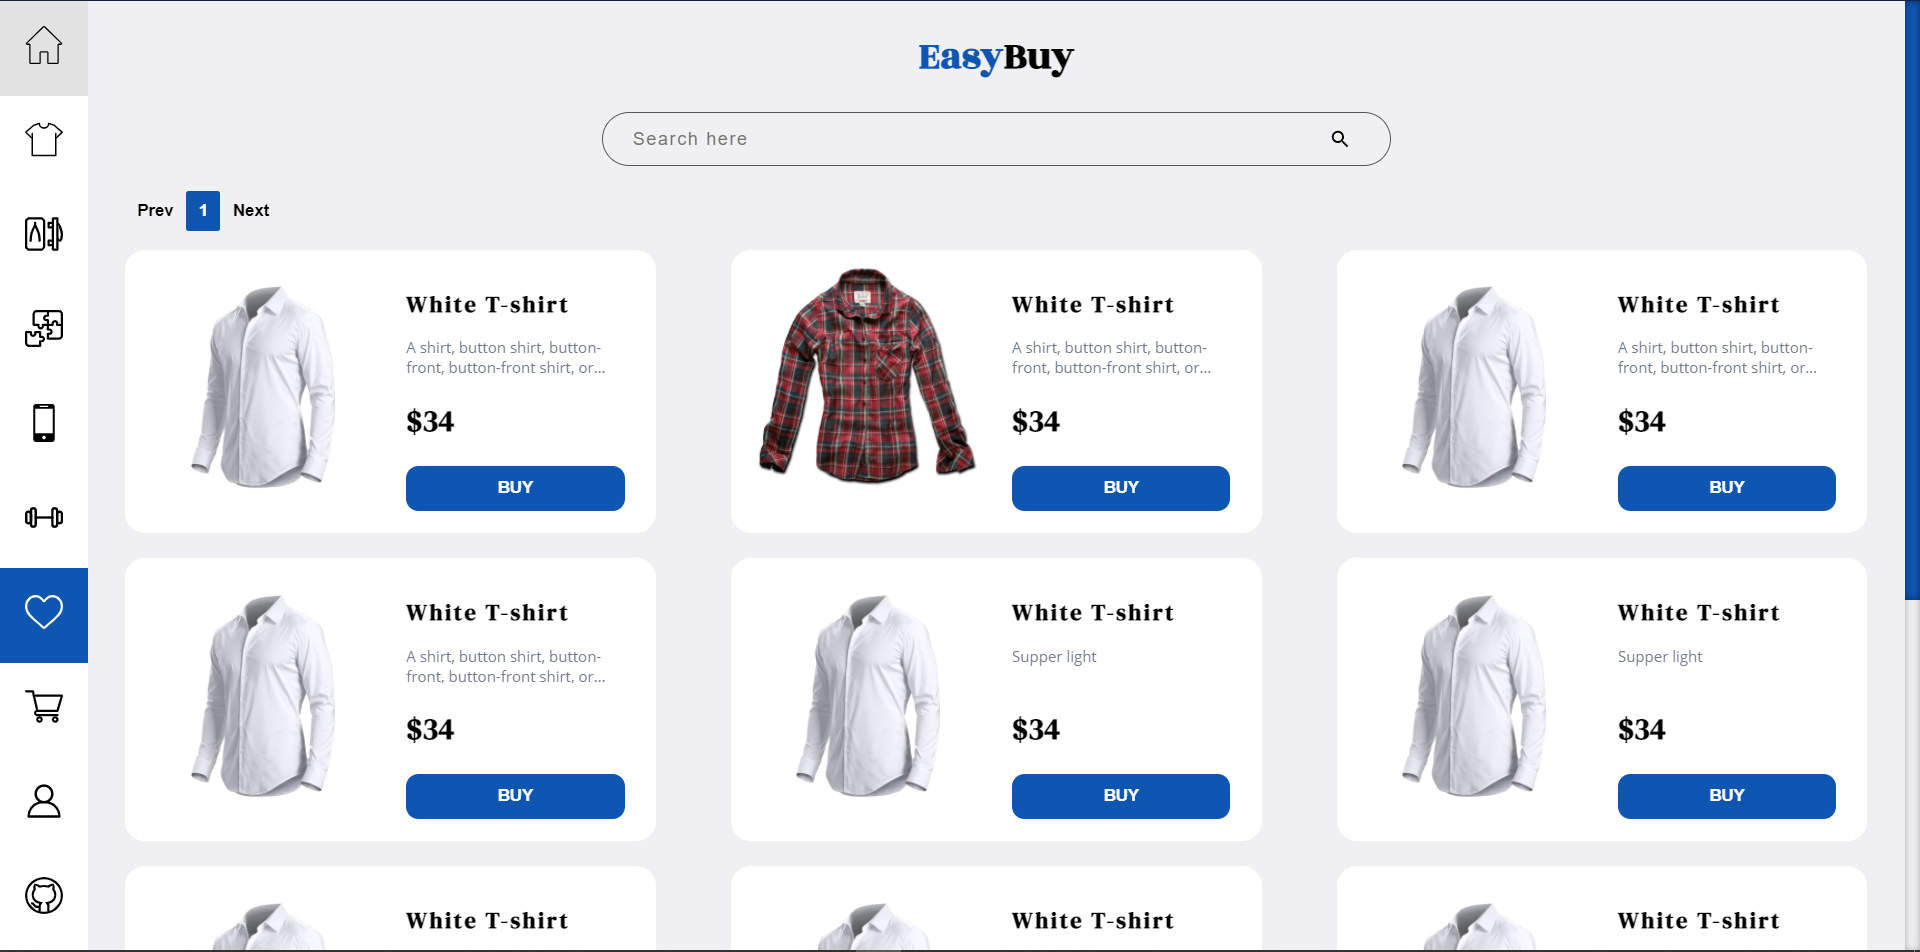
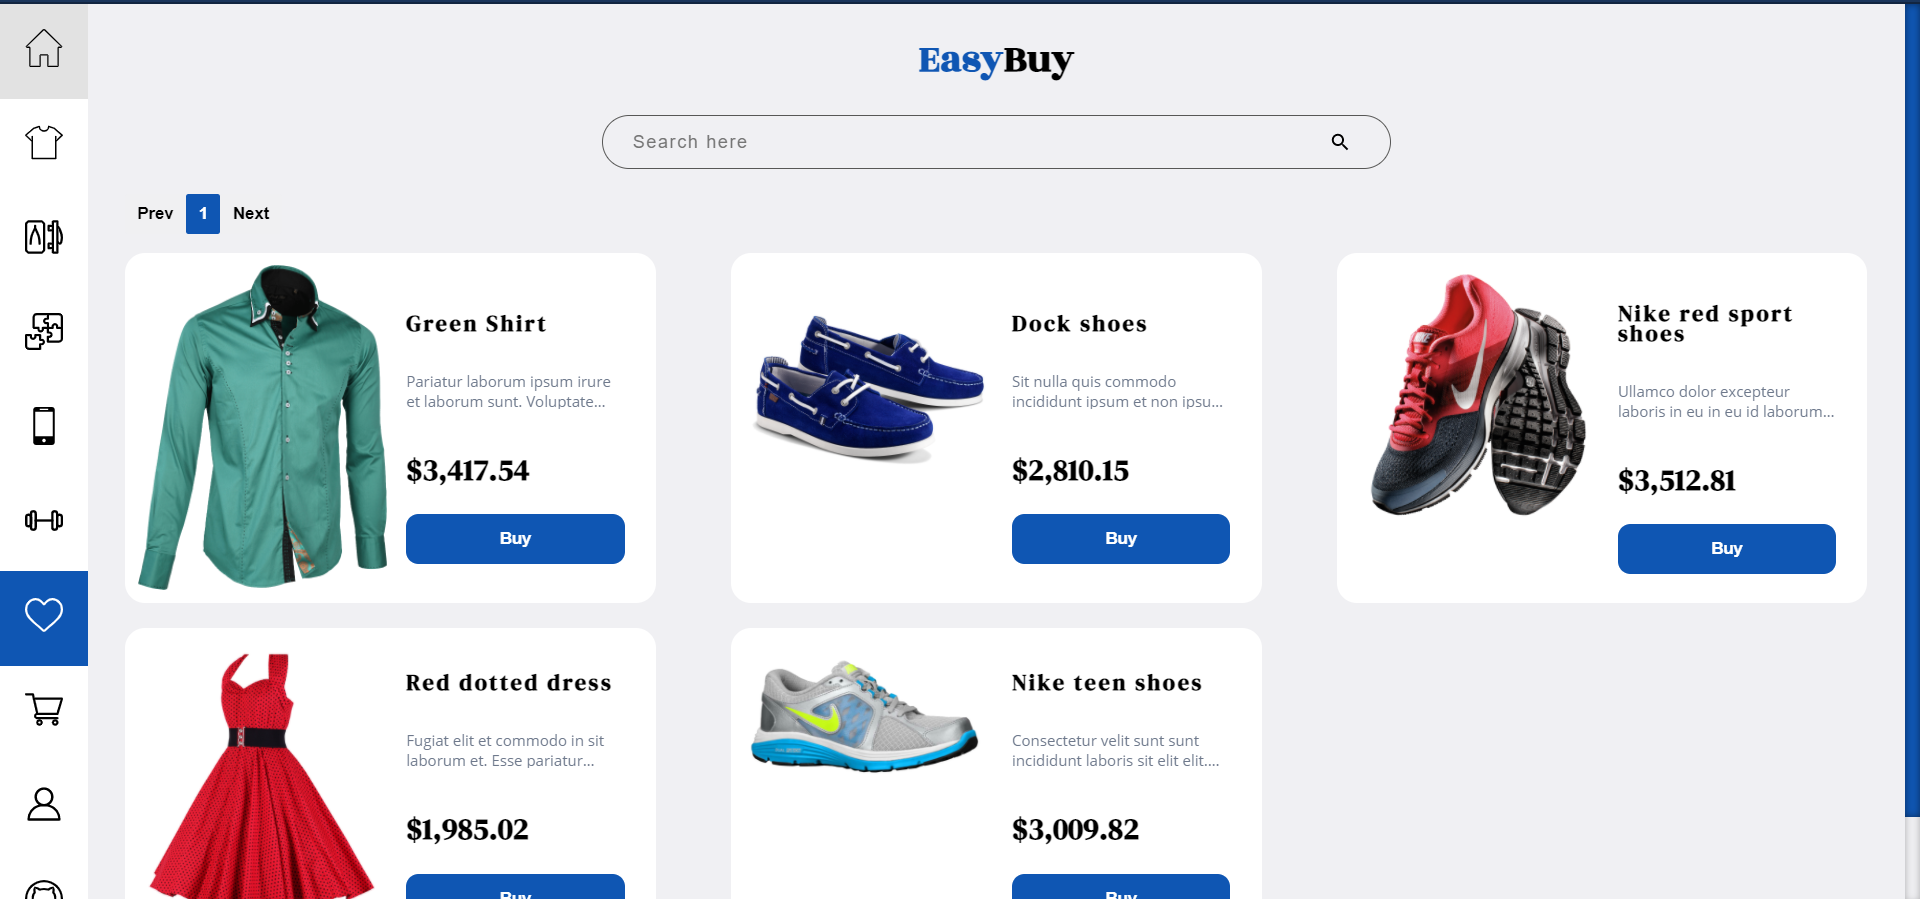
add logic to favorite and cart

diff --git a/src/pages/WishedList/WishedList.js b/src/pages/WishedList/WishedList.js
@@ -10,94 +10,7 @@ const Grid = styled.div`
   grid-template-columns: repeat(auto-fill, minmax(400px, 1fr));
   padding-bottom: 30px;
   position: relative;
-  z-index: -1;
 `;
-const products = [
-  {
-    id: 1,
-    image:
-      "https://freepngimg.com/thumb/dress%20shirt/38-white-dress-shirt-png-image.png",
-    title: "White T-shirt",
-    description:
-      "A shirt, button shirt, button-front, button-front shirt, or button-up shirt could be a garment with a collar and a full-length gap at the front that is fixed mistreatment buttons or shirt studs",
-    price: "$34",
-  },
-  {
-    id: 2,
-    image:
-      "https://freepngimg.com/thumb/dress%20shirt/3-dress-shirt-png-image.png",
-    title: "White T-shirt",
-    description:
-      "A shirt, button shirt, button-front, button-front shirt, or button-up shirt could be a garment with a collar and a full-length gap at the front that is fixed mistreatment buttons or shirt studs",
-    price: "$34",
-  },
-  {
-    id: 3,
-    image:
-      "https://freepngimg.com/thumb/dress%20shirt/38-white-dress-shirt-png-image.png",
-    title: "White T-shirt",
-    description:
-      "A shirt, button shirt, button-front, button-front shirt, or button-up shirt could be a garment with a collar and a full-length gap at the front that is fixed mistreatment buttons or shirt studs",
-    price: "$34",
-  },
-  {
-    id: 4,
-    image:
-      "https://freepngimg.com/thumb/dress%20shirt/38-white-dress-shirt-png-image.png",
-    title: "White T-shirt",
-    description:
-      "A shirt, button shirt, button-front, button-front shirt, or button-up shirt could be a garment with a collar and a full-length gap at the front that is fixed mistreatment buttons or shirt studs",
-    price: "$34",
-  },
-  {
-    id: 5,
-    image:
-      "https://freepngimg.com/thumb/dress%20shirt/38-white-dress-shirt-png-image.png",
-    title: "White T-shirt",
-    description: "Supper light",
-    price: "$34",
-  },
-  {
-    id: 6,
-    image:
-      "https://freepngimg.com/thumb/dress%20shirt/38-white-dress-shirt-png-image.png",
-    title: "White T-shirt",
-    description: "Supper light",
-    price: "$34",
-  },
-  {
-    id: 7,
-    image:
-      "https://freepngimg.com/thumb/dress%20shirt/38-white-dress-shirt-png-image.png",
-    title: "White T-shirt",
-    description: "Supper light",
-    price: "$34",
-  },
-  {
-    id: 8,
-    image:
-      "https://freepngimg.com/thumb/dress%20shirt/38-white-dress-shirt-png-image.png",
-    title: "White T-shirt",
-    description: "Supper light",
-    price: "$34",
-  },
-  {
-    id: 9,
-    image:
-      "https://freepngimg.com/thumb/dress%20shirt/38-white-dress-shirt-png-image.png",
-    title: "White T-shirt",
-    description: "Supper light",
-    price: "$34",
-  },
-  {
-    id: 10,
-    image:
-      "https://freepngimg.com/thumb/dress%20shirt/38-white-dress-shirt-png-image.png",
-    title: "White T-shirt",
-    description: "Supper light",
-    price: "$34",
-  },
-];
 
 const Container = styled.div`
   display: grid;
@@ -131,6 +44,10 @@ const CardSubtitle = styled.p`
 const CardContent = styled.div`
   text-align: left;
   padding: 8px 15px;
+  display: flex;
+  justify-content: center;
+  align-item: center;
+  flex-direction: column;
 `;
 
 const CartButton = styled.button`
@@ -145,7 +62,7 @@ const CartButton = styled.button`
   font-weight: 600;
   &:hover {
     background-color: #cecece !important;
-    color: #000;
+    color: #fff;
   }
 `;
 
@@ -154,7 +71,7 @@ function CardItem({ product }) {
     <Container>
       <CardImage src={product.image}></CardImage>
       <CardContent>
-        <CardTitle>{product.title}</CardTitle>
+        <CardTitle>{product.name}</CardTitle>
         <CardSubtitle>{product.description}</CardSubtitle>
         <h2>{product.price}</h2>
         <CartButton>Buy</CartButton>
@@ -167,6 +84,7 @@ const MAXIMUM_ITEM_PER_PAGE = 10;
 
 function WishedList() {
   const [currentPage, setCurrentPage] = useState(1);
+  const products = JSON.parse(localStorage.getItem("favorite"));
   return (
     <div>
       <Layout>

diff --git a/src/components/Card/Card.js b/src/components/Card/Card.js
@@ -64,20 +64,49 @@ const CartButton = styled.button`
   font-weight: 600;
   &:hover {
     background-color: #cecece;
-    color: #000;
+    color: #fff;
   }
 `;
 
+const isInWishList = (id) => {
+  let products = JSON.parse(localStorage.getItem("favorite") || "[]");
+  return products.findIndex((product) => product.id == id) >= 0;
+};
+
+const isInCart = (id) => {
+  let products = JSON.parse(localStorage.getItem("cart") || "[]");
+  return products.findIndex((product) => product.id == id) >= 0;
+};
+
+const addToFavorite = (target) => {
+  let products = JSON.parse(localStorage.getItem("favorite") || "[]");
+  if (products.findIndex((product) => product.id == target.id) >= 0) {
+    products = products.filter((product) => product.id != target.id);
+  } else products.push(target);
+  localStorage.setItem("favorite", JSON.stringify(products));
+};
+
+const addToCart = (target) => {
+  let products = JSON.parse(localStorage.getItem("cart") || "[]");
+  if (!isInCart(target.id)) products.push(target);
+  localStorage.setItem("cart", JSON.stringify(products));
+};
+
 function Card({ product }) {
-  const [favourite, setFavourite] = useState(false);
+  const [favourite, setFavourite] = useState(isInWishList(product.id));
+  const [, forceUpdate] = useState(false);
   const history = useHistory();
   return (
     <Container onClick={() => history.push("/product/" + product.id)}>
-      <Tooltip content="Add to your wishlist" direction="right">
+      <Tooltip
+        content={favourite ? "Remove from wishlist" : "Add to your wishlist"}
+        direction="right"
+      >
         <Icon
           src={favourite ? HeartIcon : HeartPlainIcon}
           onClick={(e) => {
             e.stopPropagation();
+            addToFavorite(product);
             setFavourite((prevState) => !prevState);
           }}
         ></Icon>
@@ -90,8 +119,22 @@ function Card({ product }) {
         </div>
         <CardActions>
           <h3>{product.price}</h3>
-          <Tooltip content="Add to your cart" direction="right">
-            <CartButton>Buy</CartButton>
+          <Tooltip
+            content="Add to my cart"
+            direction="right"
+            useHover={!isInCart(product.id)}
+          >
+            <CartButton
+              style={isInCart(product.id) ? { backgroundColor: "#cecece" } : {}}
+              onClick={(e) => {
+                e.stopPropagation();
+                addToCart(product);
+                forceUpdate((it) => !it);
+              }}
+              disabled={isInCart(product.id)}
+            >
+              Buy
+            </CartButton>
           </Tooltip>
         </CardActions>
       </CardContent>

diff --git a/src/pages/Cart/Cart.js b/src/pages/Cart/Cart.js
@@ -1,7 +1,9 @@
 import React from "react";
 import styled from "styled-components";
 import Layout from "../../components/Layout/Layout";
-
+import Slider from "react-slick";
+import Carousel from "react-elastic-carousel";
+/*
 const products = [
   {
     id: 1,
@@ -112,11 +114,12 @@ const products = [
     price: "$34",
   },
 ];
-
+*/
 const Grid = styled.div`
   display: grid;
-  grid-template-columns: 2fr 1fr;
-  padding: 0px 30px;
+  padding: 0px 40px;
+  grid-template-columns: 1fr 1fr;
+  position: relative;
 `;
 const Container = styled.div`
   display: grid;
@@ -126,9 +129,12 @@ const Container = styled.div`
 const CardItem = styled.div`
   background-color: #fff;
   border-radius: 16px;
+  width: 400px;
   display: grid;
   grid-template-columns: 150px 1fr;
   padding: 10px;
+  height: 250px;
+  align-items: center;
 `;
 const CardImage = styled.img`
   width: 150px;
@@ -160,27 +166,36 @@ const Recipe = styled.div`
   margin: 0px 20px;
   background-color: #fff;
   border-radius: 16px;
+  margin: 0px 20px;
 `;
 function Cart() {
+  const products = JSON.parse(localStorage.getItem("cart") || "[]");
   return (
     <Layout>
-      <Grid>
-        <Container>
-          {products.map((product) => (
-            <CardItem key={product.id}>
-              <CardImage src={product.image}></CardImage>
-              <CardContent>
-                <CardTitle>{product.title}</CardTitle>
-                <CardSubtitle>{product.description}</CardSubtitle>
-                <h2>{product.price}</h2>
-              </CardContent>
-            </CardItem>
-          ))}
-        </Container>
-        <Recipe>
-          <h1>$234</h1>
-        </Recipe>
-      </Grid>
+      <div
+        style={{
+          verticalAlign: "center",
+        }}
+      >
+        <Grid>
+          <Carousel>
+            {products.map((product) => (
+              <CardItem key={product.id}>
+                <CardImage src={product.image}></CardImage>
+                <CardContent>
+                  <CardTitle>{product.name}</CardTitle>
+                  <CardSubtitle>{product.description}</CardSubtitle>
+                  <h2>{product.price}</h2>
+                </CardContent>
+              </CardItem>
+            ))}
+          </Carousel>
+
+          <Recipe>
+            <h1>$234</h1>
+          </Recipe>
+        </Grid>
+      </div>
     </Layout>
   );
 }

diff --git a/src/App.css b/src/App.css
@@ -33,3 +33,16 @@
 .react-tooltip-lite-arrow {
   border-color: #333;
 }
+.loPmmL {
+  background-color: rgba(15, 86, 179, 0.5) !important;
+  box-shadow: 0 0 1px 3px rgb(15, 86, 179) !important;
+}
+.ecQQgx {
+  background-color: rgba(15, 86, 179, 0.1) !important;
+}
+
+.ecQQgx:hover:enabled,
+.ecQQgx:focus:enabled {
+  color: #fff;
+  background-color: rgb(15, 86, 179) !important;
+}

diff --git a/README.md b/README.md
@@ -2,21 +2,21 @@
 
 E-commercial website to buy stuff online. Personal project to learn about Frontend development and practice with React.js
 
-## UI
+## User Interface
 
 ### Login
 
 ![login](./img/login.PNG)
 
-## Home
+### Home
 
 ![main](./img/main.PNG)
 
-## Product details
+### Product details
 
 ![details](./img/detail.PNG)
 
-## WishList
+### WishList
 
 ![wishlist](./img/wishlist.PNG)
 
